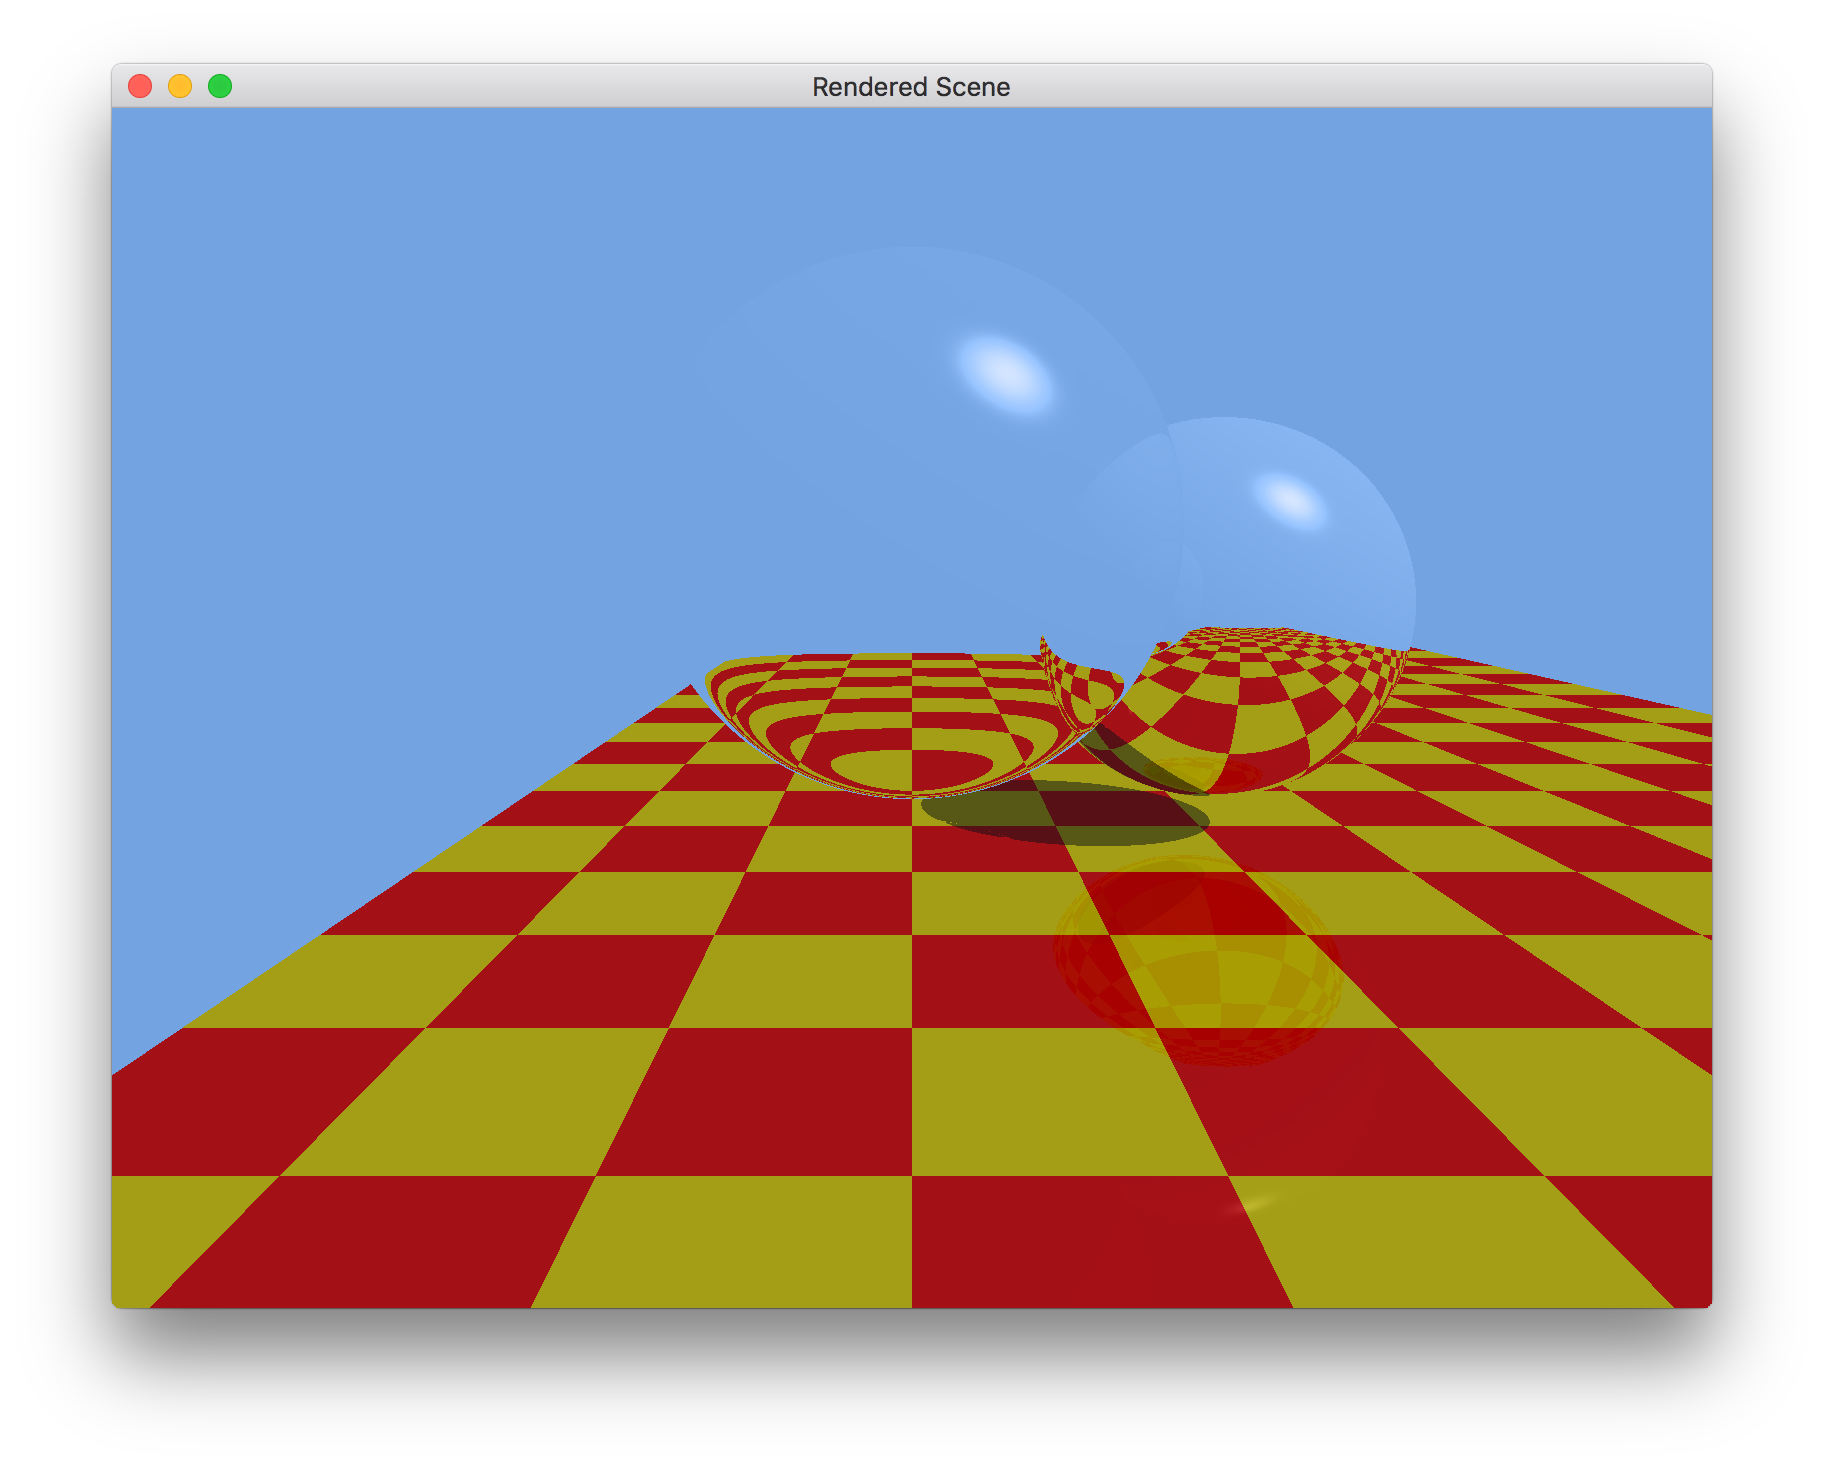
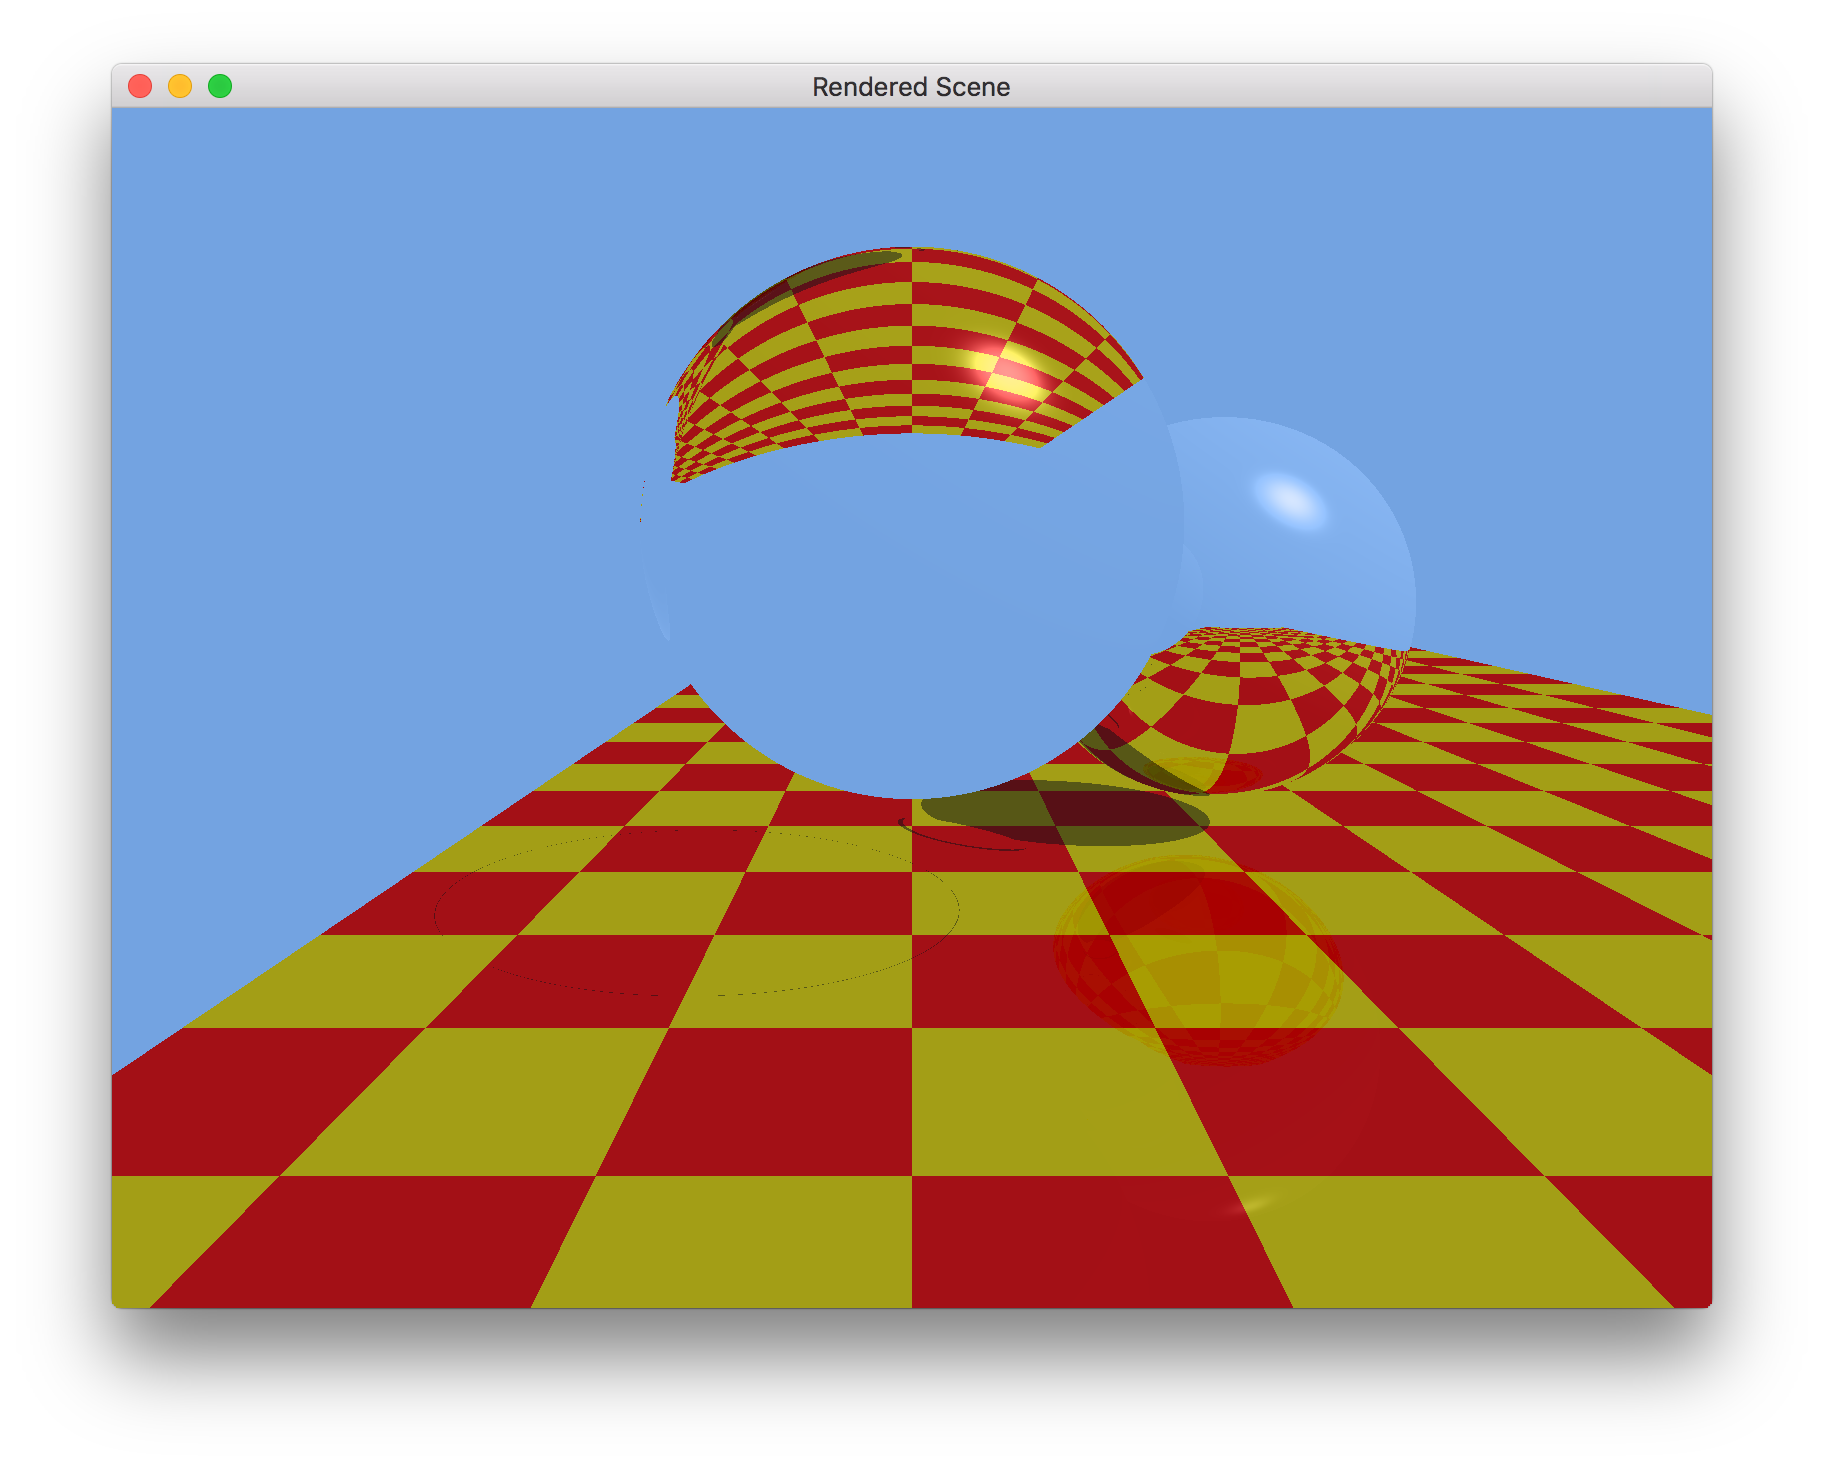
Added update global illumination transmission post.

Changed region(s): [[0.3438, 0.1533, 0.625, 0.3372], [0.375, 0.4292, 0.625, 0.5518]]

diff --git a/_site/global_illumination/index.html b/_site/global_illumination/index.html
@@ -66,6 +66,9 @@
   .right {
     float: right;
   }
+  .padded {
+    margin-left: 15px;
+  }
 </style>
 
 <p>Similarly to the previous assignment, the sixth assignment introduces rendering
@@ -86,7 +89,29 @@ pixels being the ray&#39;s final direction vector coded as color:</p>
   <img src="/post-content/2018/04/17/transmission/refraction_normals.png" />
 </a></p>
 
-<p><a class="halfimg right" href="/post-content/2018/04/17/transmission/oops.png">
+<p>I can also create lenses by scaling the sphere non-uniformly. Here&#39;s a preview
+and render screenshot of a lens that&#39;s a sphere 2.5 x 2.5 x 0.5 units, with
+a green sphere behind it as a subject:</p>
+
+<p><a class="halfimg left" href="/post-content/2018/04/17/transmission/lens_preview.png">
+  <img src="/post-content/2018/04/17/transmission/lens_preview.png" />
+</a>
+<a class="halfimg right" href="/post-content/2018/04/17/transmission/lens.png">
+  <img src="/post-content/2018/04/17/transmission/lens.png" />
+</a></p>
+
+<p>Here are two renders with the camera more on axis, showing the green subject.
+The right picture is the camera moved closer to the lens. Click on the pictures
+for the full resolution.</p>
+
+<p><a class="halfimg left" href="/post-content/2018/04/17/transmission/lens_on_axis.png">
+  <img src="/post-content/2018/04/17/transmission/lens_on_axis.png" />
+</a>
+<a class="halfimg right" href="/post-content/2018/04/17/transmission/lens_closer.png">
+  <img src="/post-content/2018/04/17/transmission/lens_closer.png" />
+</a></p>
+
+<p><a class="halfimg right padded" href="/post-content/2018/04/17/transmission/oops.png">
   <img src="/post-content/2018/04/17/transmission/oops.png" />
 </a></p>
 

diff --git a/global_illumination/index.html b/global_illumination/index.html
@@ -66,6 +66,9 @@
   .right {
     float: right;
   }
+  .padded {
+    margin-left: 15px;
+  }
 </style>
 
 <p>Similarly to the previous assignment, the sixth assignment introduces rendering
@@ -86,7 +89,29 @@ pixels being the ray&#39;s final direction vector coded as color:</p>
   <img src="/post-content/2018/04/17/transmission/refraction_normals.png" />
 </a></p>
 
-<p><a class="halfimg right" href="/post-content/2018/04/17/transmission/oops.png">
+<p>I can also create lenses by scaling the sphere non-uniformly. Here&#39;s a preview
+and render screenshot of a lens that&#39;s a sphere 2.5 x 2.5 x 0.5 units, with
+a green sphere behind it as a subject:</p>
+
+<p><a class="halfimg left" href="/post-content/2018/04/17/transmission/lens_preview.png">
+  <img src="/post-content/2018/04/17/transmission/lens_preview.png" />
+</a>
+<a class="halfimg right" href="/post-content/2018/04/17/transmission/lens.png">
+  <img src="/post-content/2018/04/17/transmission/lens.png" />
+</a></p>
+
+<p>Here are two renders with the camera more on axis, showing the green subject.
+The right picture is the camera moved closer to the lens. Click on the pictures
+for the full resolution.</p>
+
+<p><a class="halfimg left" href="/post-content/2018/04/17/transmission/lens_on_axis.png">
+  <img src="/post-content/2018/04/17/transmission/lens_on_axis.png" />
+</a>
+<a class="halfimg right" href="/post-content/2018/04/17/transmission/lens_closer.png">
+  <img src="/post-content/2018/04/17/transmission/lens_closer.png" />
+</a></p>
+
+<p><a class="halfimg right padded" href="/post-content/2018/04/17/transmission/oops.png">
   <img src="/post-content/2018/04/17/transmission/oops.png" />
 </a></p>
 
